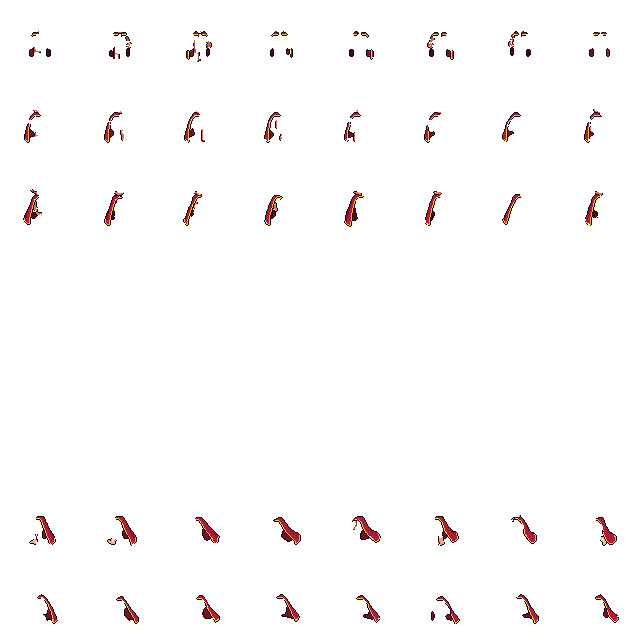
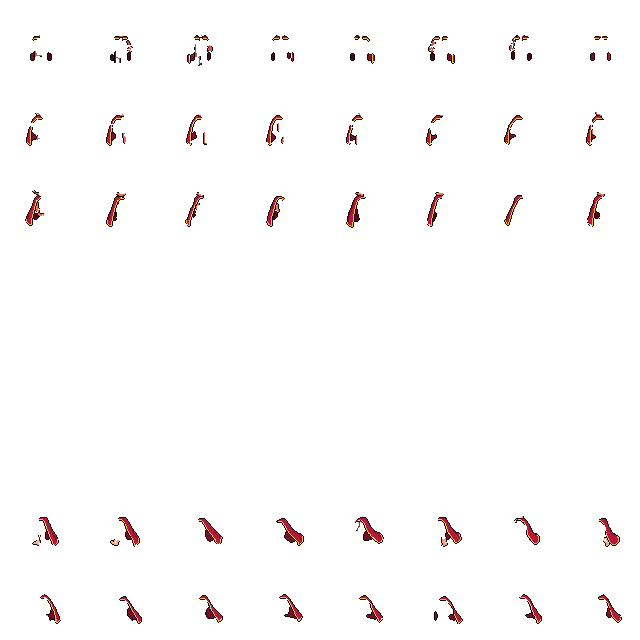
Ao choang: can chinh theo than goc (offset moi huong)
Claude-Session: https://claude.ai/code/session_016Hbhx4zbSbHqsi2UrtDjx4

diff --git a/tools/extract_cape.py b/tools/extract_cape.py
@@ -1,38 +1,34 @@
-import numpy as np, json
+import numpy as np
 from PIL import Image
-D='/root/.claude/projects/-home-claude-tutien-game/93e4417b-5a7d-56c6-8655-10d96e9547d4/tool-results/mcp-PixelLab-blob-'
-# (blob, cell, nframes)  thu tu hang: S,SE,E,NE,N,NW,W,SW
-SRC=[('1791518615901-lfulj9',64,8),('1791518618697-b3dsgy',64,8),('1791518620587-vy58va',64,8),
-     ('1791518959560-ekb1q9',76,9),('1791518955012-jtlq8n',76,9),('1791518961174-3x7en2',76,9),
-     ('1791518963163-txw23h',80,9),('1791518970774-s9tbfv',80,9)]
-FRONT={3,4,5}; C=80
-def cape_mask(c,bg):
-    R,G,B=[c[...,i].astype(float) for i in range(3)]
-    red=(G<0.55*R)&(R>60)
-    gold=((R-B)>=100)&(G>=160)&(R>200)
-    m=(red|gold)&~bg
-    from scipy import ndimage as ndi
-    lab,nl=ndi.label(m,structure=np.ones((3,3)))
-    if nl:
-        sz=ndi.sum(m,lab,range(1,nl+1))
-        keep=[i+1 for i,v in enumerate(sz) if v>=max(8,0.12*sz.max())]
-        m=np.isin(lab,keep)
-    dark=(c.sum(2)<110)&~bg
-    near=np.zeros_like(m)
-    for dy,dx in((1,0),(-1,0),(0,1),(0,-1)): near|=np.roll(np.roll(m,dy,0),dx,1)
-    return m|(dark&near)
+exec(open('align.py').read().split("res={}")[0])
+def shift(a,dx,dy):
+    return np.roll(np.roll(a,dy,0),dx,1)
+def score(F,bm,s,dx,dy,rows=slice(0,80)):
+    return sum(((a:=shift(F[(f+s)%8],dx,dy)[rows])&(b:=bm[f][rows])).sum()/max(1,(a|b).sum()) for f in range(8))/8
 back=Image.new('RGBA',(8*C,8*C));front=Image.new('RGBA',(8*C,8*C))
-for r,(b,cell,n) in enumerate(SRC):
-    im=np.array(Image.open(D+b+'.png').convert('RGB')).astype(int)
-    S=3;cw=cell*S;ch=cell*S+18
-    pad=(C-cell)//2
-    fr=range(1,9) if n==9 else range(8)
-    for k,f in enumerate(fr):
-        cx,cy=(f%3)*cw,(f//3)*ch+18
-        c=im[cy:cy+cell*S,cx:cx+cw][1::3,1::3]
-        bg=(abs(c-np.array([31,37,44])).sum(2)<8)
-        m=cape_mask(c,bg)
-        a=np.zeros((cell,cell,4),np.uint8);a[...,:3]=c;a[m,3]=255
-        t=Image.fromarray(a)
-        (front if r in FRONT else back).alpha_composite(t,(k*C+pad,r*C+pad)) if False else (front if r in FRONT else back).paste(t,(k*C+pad,r*C+pad))
+cap_frames=lambda r:None
+log=[]
+for r in range(8):
+    F=frames(r);bm=[]
+    for f in range(8):
+        m=np.zeros((80,80),bool);m[8:72,8:72]=base[r*64:(r+1)*64,f*64:(f+1)*64,3]>0;bm.append(m)
+    head=slice(0,36)   # dau + vai (it bi ao che)
+    cand=[(score(F,bm,s,dx,dy,head),s,dx,dy) for s in range(8) for dx in range(-6,7) for dy in range(-6,7)]
+    s0=max(c for c in cand if c[1]==0);sb=max(cand)
+    pick=sb if sb[0]-s0[0]>0.04 else s0
+    _,s,dx,dy=pick;log.append((r,s,dx,dy,round(s0[0],2),round(sb[0],2)))
+    # cat ao theo cung pipeline ex.py
+    b,cell,n=SRC[r];im=np.array(Image.open(D+b+'.png').convert('RGB')).astype(int)
+    fr=list(range(1,9)) if n==9 else list(range(8));p=(80-cell)//2
+    tiles=[]
+    for f in fr:
+        cw=cell*3;ch=cell*3+18;cx,cy=(f%3)*cw,(f//3)*ch+18
+        c=im[cy:cy+cell*3,cx:cx+cw][1::3,1::3]
+        bgm=(abs(c-np.array([31,37,44])).sum(2)<8);m=cape_mask(c,bgm)
+        a=np.zeros((80,80,4),np.uint8);a[p:p+cell,p:p+cell,:3]=c;a[p:p+cell,p:p+cell,3]=255*m
+        tiles.append(a)
+    for k in range(8):
+        a=shift(tiles[(k+s)%8],dx,dy)
+        (front if r in FRONT else back).paste(Image.fromarray(a),(k*C,r*C))
+for l in log:print(l)
 back.save('cape_back_walk.png');front.save('cape_front_walk.png')
